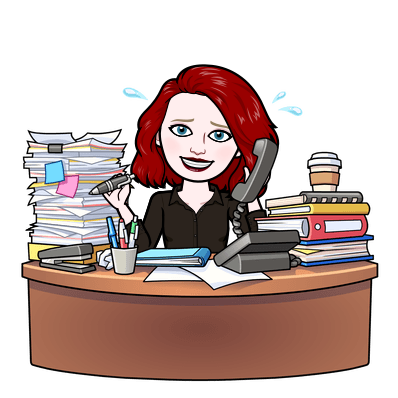
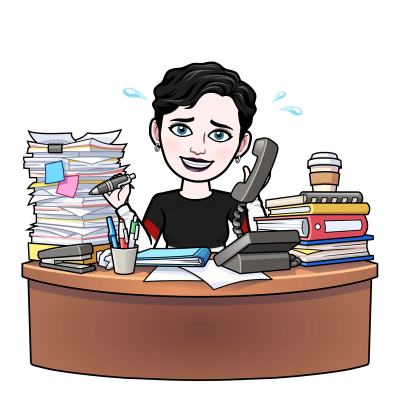
Updated images to reflect new hair color.

diff --git a/hire/index.html b/hire/index.html
@@ -6,7 +6,6 @@
     <meta name="viewport" content="width=device-width, initial-scale=1">
     <title>Ro Dixon | Director of UX</title>
     <meta name="description" content="Over a decades worth of designing, leading, and researching user experience.">
-    <meta http-equiv="refresh" content="0; URL=http://rodixondesigns.com/index.html" />
     <!-- Google / Search Engine Tags -->
     <meta itemprop="name" content="Ro Dixon | Director of UX">
     <meta itemprop="description" content="Over a decades worth of designing, leading, and researching user experience.">
@@ -27,20 +26,7 @@
     <link href="https://fonts.googleapis.com/css?family=Quicksand|Fira+Sans" rel="stylesheet">
     <link rel="stylesheet" type="text/css" href="css/uikit.min.css">
     <link rel="stylesheet" type="text/css" href="css/style.css">
-    <script>
-        (function(i, s, o, g, r, a, m) {
-            i['GoogleAnalyticsObject'] = r;
-            i[r] = i[r] || function() {
-                (i[r].q = i[r].q || []).push(arguments)
-            }, i[r].l = 1 * new Date();
-            a = s.createElement(o), m = s.getElementsByTagName(o)[0];
-            a.async = 1;
-            a.src = g;
-            m.parentNode.insertBefore(a, m)
-        })(window, document, 'script', 'https://www.google-analytics.com/analytics.js', 'ga');
-        ga('create', 'UA-86291678-1', 'auto');
-        ga('send', 'pageview');
-    </script>
+    <script defer data-domain="rodixondesigns.com" src="https://plausible.io/js/plausible.js"></script>
 </head>
 
 <body>
@@ -62,61 +48,60 @@
                         </nav>
                     </div>
                     <div class="uk-animation-slide-top uk-visible@m"><img class="portrait" src="assets/ro_profile.png" alt="Profile circular photo of Ro Dixon"></div>
-                    <div>
+                    <div class="uk-margin-large-top">
                         <h2 class="uk-text-center font-dk-blue tight uk-animation-slide-right delay-1s">Hi, I'm Ro</h2>
-                        <h2 class="uk-text-center font-dk-blue tight uk-animation-slide-left delay-2s">Director </h2></div>
+                        <h2 class="uk-text-center font-dk-blue tight uk-animation-slide-left delay-2s">Director of UX</h2></div>
                 </div>
             </div>
         </header>
           <section id="about">
             <div class="uk-grid-small uk-child-width-expand@s uk-padding uk-text-center" uk-grid>
                 <div uk-scrollspy="cls: uk-animation-slide-top; repeat: true">
-                <img src="assets/hello.png" alt="Avatar of Ro on an Elephant">
+                <img src="assets/hello.png" alt="Avatar of Ro">
                 </div>
-                <div uk-scrollspy="cls:uk-animation-slide-bottom; repeat: true">
+                <div class="uk-text-left uk-padding" uk-scrollspy="cls:uk-animation-slide-bottom; repeat: true">
                     <h2 class="font-dk-blue"> Hey There!</h2>
-                    <h5>I'm the Director of UX for an established digital product company based in Louisville, KY.<br><br>I love learning what makes people tick and helping solve user problems- getting paid to do so is just a huge bonus!</h5></div>
+                    <h5>I have 13 years of experience in IT, with a focus on UX design in the SaaS and B2B space. <br><br>I lead my current employer’s design strategy and end-to-end process and mentor junior designers, all while advocating for my users at every turn.<br><br> I’m interested in a leadership role where my team is eager to learn and grow and we’re working together to solve tough problems for our users and stakeholders alike.</h5></div>
             </div>
           </section>
         <div id="svcs" class="uk-height-large uk-background-cover uk-dark uk-flex" uk-parallax="bgy: -400" style="background-image: url('assets/services.jpg');">
             <h1 class="uk-width-1-2@m uk-text-center uk-margin-auto uk-margin-auto-vertical">Qualifications</h1></div>
         <section id="services">
             <div class="uk-child-width-1-3@m uk-grid-small uk-grid-match uk-padding" uk-grid>
+              <div>
+                  <div class="uk-card uk-card-body" uk-scrollspy="cls: uk-animation-slide-right; repeat: true">
+                      <div class="uk-card-title uk-text-center">
+                        <img class="" src="assets/lead.svg">
+                          <h4 class="font-dk-blue lobster uk-padding-small">Lead</h4></div>
+                      <ul>
+                        <li>I lead a multi-disciplinary team on client projects while staying on budget and on schedule as much as is within my power to do so.</li><br>
+                        <li>I mentor junior designers, empowering them to do their best work. I guide them to set and reach goals that benefit them personally, as well as align with team and company objectives.</li>
+                      </ul>
+                  </div>
+              </div>
                 <div>
                     <div class="uk-card uk-card-body" uk-scrollspy="cls: uk-animation-slide-left; repeat: true">
                         <div class="uk-card-title uk-text-center">
-                          <span class="qual-circle" uk-icon="icon: paint-bucket; ratio: 3.5"></span>
-                            <h4 class="font-dk-blue lobster">Design</h4></div>
+                          <img class="" src="assets/design.svg">
+                            <h4 class="font-dk-blue lobster uk-padding-small">Design</h4></div>
                         <ul>
-                          <li>I have 13 years in IT, with most of my time spent as a User Experience Designer working on SaaS and B2B apps in the healthcare space.</li><br>
-                          <li>I've spent the last 3.5 years working on a broad array of products, including a fashion advice app, a politically-focused social media platform, and an IoT monitoring system for grocery stores and restaurants, to name a few.</li>
+                          <li>I have a great deal of experience with UCD, goal-centered design, various methodologies, and user testing practices.</li><br>
+                          <li>While a majority of my experience has been designing SaaS and B2B solutions, I've spent the last 4 years working on a broad array of products, including a fashion advice app, a politically-focused social media platform, and an IoT monitoring system for grocery stores and restaurants, to name a few.</li>
                         </ul>
                     </div>
                 </div>
                 <div>
                     <div class="uk-card uk-card-body" uk-scrollspy="cls: uk-animation-slide-top; repeat: true">
                         <div class="uk-card-title uk-text-center">
-                          <span class="qual-circle" uk-icon="icon: settings; ratio: 3.5"></span>
-                            <h4 class="font-dk-blue lobster">Research</h4></div>
+                          <img class="" src="assets/research.svg">
+                            <h4 class="font-dk-blue lobster uk-padding-small">Research</h4></div>
                         <ul>
                           <li>I've gained a great deal of experience over the years with usability testing methods, and am well versed in the differing standardized options available today.</li><br>
                           <li>I find or collect behavioral metrics whenever possible to make informed and intelligent design decisions.</li>
                         </ul>
                     </div>
                 </div>
-                <div>
-                    <div class="uk-card uk-card-body" uk-scrollspy="cls: uk-animation-slide-right; repeat: true">
-                        <div class="uk-card-title uk-text-center">
-                          <span class="qual-circle" uk-icon="icon: pencil; ratio: 3.5"></span>
-                            <h4 class="font-dk-blue lobster">Write</h4></div>
-                        <ul>
-                          <li>I have excellent written and verbal communication skills, with experience writing articles on a diverse list of topics.</li><br>
-                          <li>Majoring in Literature has been hugely helpful in writing great copy as well as understanding my audience and/or users.</li>
-                        </ul>
-                    </div>
-                </div>
             </div>
-            <h5 class="uk-padding-large uk-padding-remove-top"><i>* I also have experience in Product Management, QA, Instructional Design, Front End Development, and Email Marketing.</i></h5>
         </section>
         <div id="svcs" class="uk-height-large uk-background-cover uk-dark uk-flex" uk-parallax="bgy: -400" style="background-image: url('assets/process.png');">
             <h1 class="uk-width-1-2@m uk-text-center uk-margin-auto uk-margin-auto-vertical font-dk-blue">Experience</h1></div>
@@ -128,7 +113,7 @@
                       <div class="timeline-content right" data-uk-scrollspy="cls: uk-animation-slide-right; delay: 100; repeat: true">
                           <h2>Director of UX</h2>
                           <h5 class="font-green">Mission Data, 2021 - Now</h5>
-                          <p>After a few years with the company, Mission Data promoted me to Director of UX to more accurately describe my role with the company.</p>
+                          <p>I lead our design strategy & process from end-to-end as well as mentor junior designers. I champion improvements to UX that have a big impact to end users, and as a result, our bottom line. Such as giving a talk to our dev teams introducing accessibility standards and why they matter. As lead designer I'm given the tools and resources I need to continually grow in my craft, and I share those learnings with my team.</p>
                       </div>
                   </div>
                     <div class="timeline-item">
@@ -136,7 +121,7 @@
                         <div class="timeline-content" data-uk-scrollspy="cls: uk-animation-slide-left; delay: 100; repeat: true">
                             <h2>Senior UX Designer</h2>
                             <h5 class="font-green">Mission Data, 2018 - 2021</h5>
-                            <p>At Mission Data we provide a variety of services, but our primary focus is on complex solutions for our clients tough problems. I'm responsible for researching, designing, and testing solutions for clients. I also write for our blog.</p>
+                            <p>At Mission Data we focus on building the best tools and experiences that solve the right problems for our clients. As their Senior UX designer I led projects and worked internally to ensure we were leveraging the latest design methodologies. I also established myself as a thought leader in the design space, partly by writing for our blog.</p>
                         </div>
                     </div>
                     <div class="timeline-item">
@@ -144,7 +129,7 @@
                         <div class="timeline-content right" data-uk-scrollspy="cls: uk-animation-slide-right; delay: 100; repeat: true">
                             <h2>UX Designer</h2>
                             <h5 class="font-green">Wayster (Formerly ZirMed), 2016 - 2018</h5>
-                            <p>Most of my time was spread across discovery, research, and design. I was responsible for our user feedback forum (a monthly email, in which we provided users helpful content and offered remote usability testing); as well as implementing an SUS method of standardized usability testing for their products.</p>
+                            <p>At Waystar, a SaaS company in the healthcare space, the majority of my time was spread across discovery, research, and design. I was also responsible for our user feedback forum- a monthly email where we provided users helpful content and conducted remote usability testing. I implemented an SUS method of standardized usability testing across our product line, as well as gained a lot of experience using behavioral metrics and google analytics to make intelligent design decisions. </p>
                         </div>
                     </div>
                     <div class="timeline-item">
@@ -152,7 +137,7 @@
                         <div class="timeline-content" data-uk-scrollspy="cls: uk-animation-slide-left; delay: 100; repeat: true">
                             <h2>Programmer Analyst</h2>
                             <h5 class="font-green">Kindred Healthcare, 2012 - 2016</h5>
-                            <p>At the time, Kindred didn’t have product managers or designers- they had analysts. My job was to meet with users and gather requirements, design the app, write the BRs and test plan, monitor devs, complete DEV testing, and support the app throughout go-live. We were responsible for the entire PDLC of our products.</p>
+                            <p>At the time, Kindred didn’t have PMs or designers- they had analysts. My job was to meet with users, gather requirements, design the app, write the BRs and test plan, monitor devs, complete DEV testing, and support the app throughout go-live. I was responsible for the entire PDLC.</p>
                         </div>
                     </div>
                     <div class="timeline-item">
@@ -341,7 +326,7 @@
 </section>
 <section id="social" class="uk-padding uk-text-middle uk-text-center">
     <h2 class="font-white uk-margin-right">Find Me Online</h2>
-    <div><a href="https://twitter.com/rodixon30?lang=en" target="_blank"><i class="fa fa-twitter-square fa-3x font-white uk-margin-right" aria-hidden="true"></i></a><a href="https://medium.com/@rodixon30" target="_blank"><i class="fa fa-medium fa-3x font-white uk-margin-right" aria-hidden="true" ></i></a><a href="https://www.behance.net/ro_dixon" target="_blank"><i class="fa fa-behance-square fa-3x font-white uk-margin-right" aria-hidden="true"></i></a><a href="https://dribbble.com/rodixon30" target="_blank"><i class="fa fa-dribbble fa-3x font-white uk-margin-right" aria-hidden="true"></i></a><a href="https://www.facebook.com/RoDixonDesigns/" target="_blank"><i class="fa fa-facebook-square fa-3x font-white uk-margin-right" aria-hidden="true"></i></a></div>
+    <div><a class="uk-padding" href="https://linkedin.com/in/ro-dixon-ux" target="_blank"><i class="fa fa-linkedin-square fa-3x font-white uk-margin-right" aria-hidden="true"></i></a><a class="uk-padding" href="https://medium.com/@rodixon30" target="_blank"><i class="fa fa-medium fa-3x font-white uk-margin-right" aria-hidden="true" ></i></a><a class="uk-padding" href="https://www.behance.net/ro_dixon" target="_blank"><i class="fa fa-behance-square fa-3x font-white uk-margin-right" aria-hidden="true"></i></a><a class="uk-padding" href="https://dribbble.com/rodixon30" target="_blank"><i class="fa fa-dribbble fa-3x font-white uk-margin-right" aria-hidden="true"></i></a></div>
 </section>
 <div id="offcanvas-nav" data-uk-offcanvas="flip: true; overlay: true">
     <div class="uk-offcanvas-bar uk-offcanvas-bar-animation uk-offcanvas-slide dk-blue">

diff --git a/index.html b/index.html
@@ -48,7 +48,7 @@
                         </nav>
                     </div>
                     <div class="uk-animation-slide-top uk-visible@m"><img class="portrait" src="assets/ro_profile.png" alt="Profile circular photo of Ro Dixon"></div>
-                    <div>
+                    <div class="uk-margin-large-top">
                         <h2 class="uk-text-center font-dk-blue tight uk-animation-slide-right delay-1s">Hi, I'm Ro</h2>
                         <h2 class="uk-text-center font-dk-blue tight uk-animation-slide-left delay-2s">Director of UX</h2></div>
                 </div>
@@ -86,7 +86,7 @@
                             <h4 class="font-dk-blue lobster uk-padding-small">Design</h4></div>
                         <ul>
                           <li>I have a great deal of experience with UCD, goal-centered design, various methodologies, and user testing practices.</li><br>
-                          <li>While a majority of my experience has been designing SaaS and B2B solutions, I've spent the last 3.5 years working on a broad array of products, including a fashion advice app, a politically-focused social media platform, and an IoT monitoring system for grocery stores and restaurants, to name a few.</li>
+                          <li>While a majority of my experience has been designing SaaS and B2B solutions, I've spent the last 4 years working on a broad array of products, including a fashion advice app, a politically-focused social media platform, and an IoT monitoring system for grocery stores and restaurants, to name a few.</li>
                         </ul>
                     </div>
                 </div>

diff --git a/about.html b/about.html
@@ -47,11 +47,11 @@
                             <div class="uk-navbar-right uk-visible@m uk-margin-large-right"><a href="https://drive.google.com/file/d/1u4UOCdeU8hJIn0t6guTrXeFWVfqW3bgi/view?usp=sharing" target="_blank" class="btn-white font-link-lt lobster"><span uk-icon="icon: print"></span> Resum&eacute; </a></div>
                         </nav>
                     </div>
-                    <div class="uk-animation-slide-top uk-visible@m"><img class="portrait" src="assets/horse-pic.png" alt="Profile circular photo of Ro Dixon"></div>
-                    <div>
-                        <h2 class="uk-text-center font-dk-blue tight uk-animation-slide-right delay-1s">Let's get to</h2>
-                        <h2 class="uk-text-center font-dk-blue tight uk-animation-slide-left delay-1s">know each other!</h2>
+                    <div class="uk-margin-large-top">
+                        <h2 class="uk-text-center font-dk-blue tight uk-animation-slide-right">Let's get to</h2>
+                        <h2 class="uk-text-center font-dk-blue tight uk-animation-slide-left">know each other!</h2>
                 </div>
+                <div class="uk-animation-slide-top delay-1s uk-visible@m"><img class="about-photo" src="assets/about-bitmoji.png" alt="Profile circular photo of Ro Dixon"></div>
             </div>
         </header>
         <section id="about">

diff --git a/work.html b/work.html
@@ -48,7 +48,7 @@
                         </nav>
                     </div>
                     <div class="uk-animation-slide-top uk-visible@m"><img class="work-photo" src="assets/work.png" alt="Profile circular photo of Ro Dixon"></div>
-                    <div>
+                    <div class="uk-margin-large-top">
                         <h2 class="uk-text-center font-dk-blue tight uk-animation-slide-right delay-1s">All work, </h2>
                         <h2 class="uk-text-center font-dk-blue tight uk-animation-slide-left delay-1s">No play!</h2>
                     </div>

diff --git a/css/style.css b/css/style.css
@@ -335,6 +335,15 @@ a:hover {
     display: block;
 }
 
+.about-photo {
+    width: 20%;
+    height: auto;
+    position: relative;
+    margin-left: 40% !important;
+    margin-bottom: 30px;
+    display: block;
+}
+
 .work-photo{
     width: 20%;
     height: auto;
